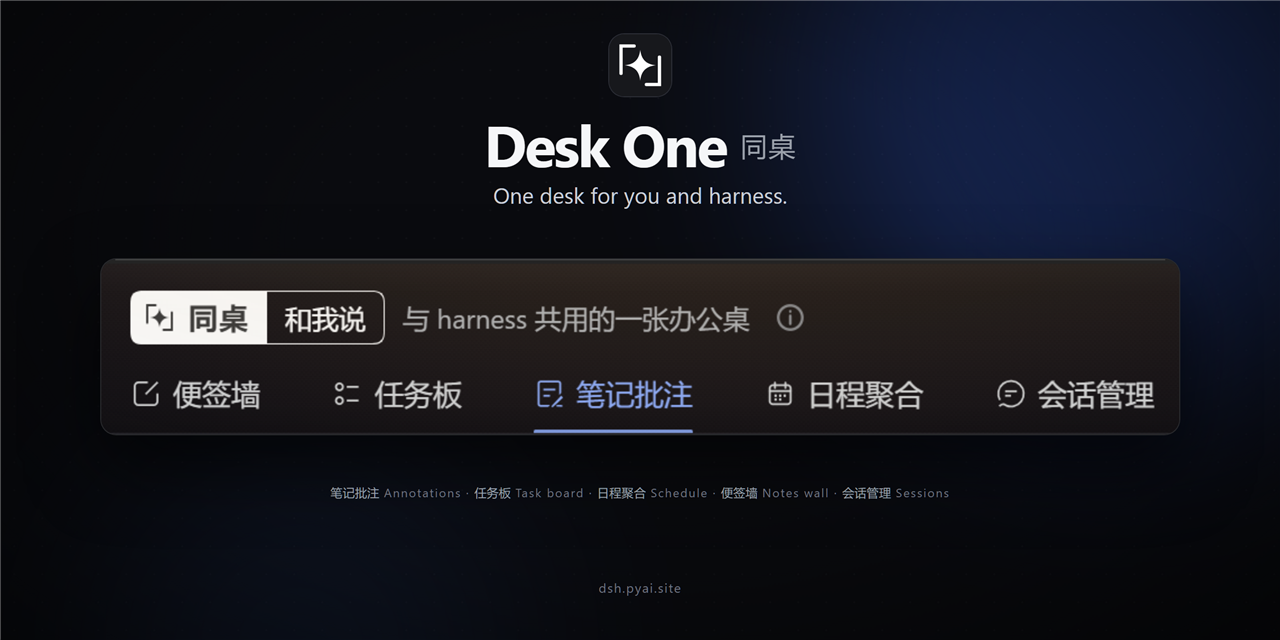
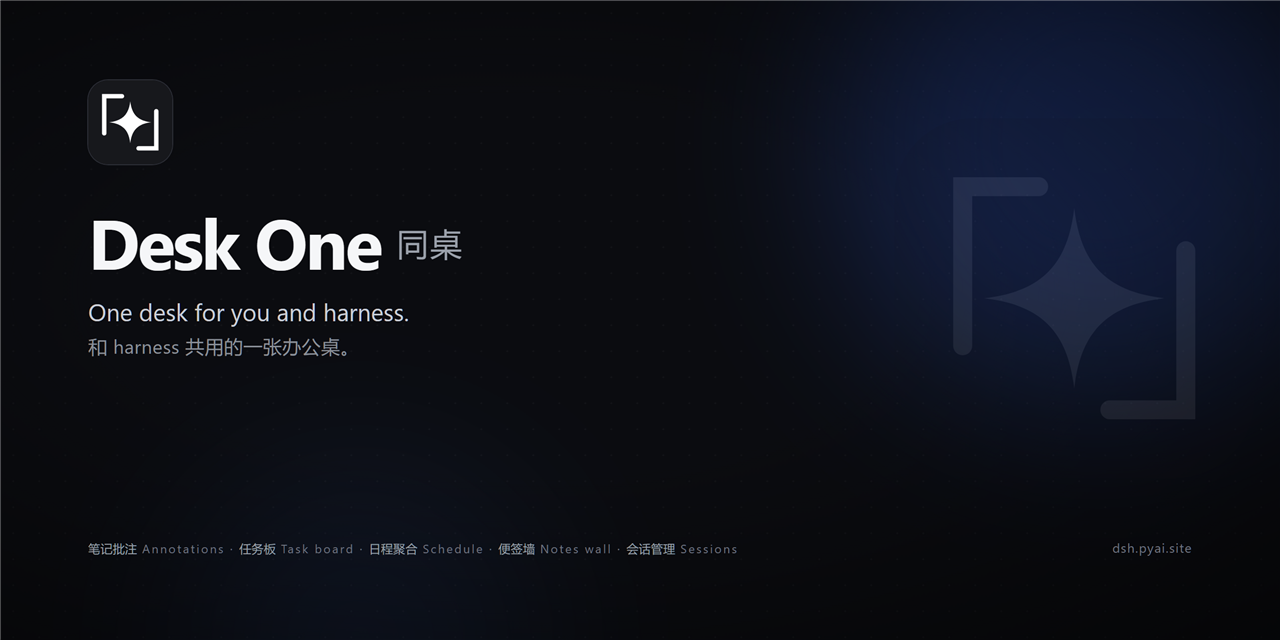
chore(resources)：社交预览回到纯品牌卡，去掉重复截图

diff --git a/docs/brand.md b/docs/brand.md
@@ -22,7 +22,7 @@
 | --- | --- | --- | --- | --- | --- |
 | B1 | 标志（透明） | `resources/brand/desk-one-mark.svg` | 24 viewBox；品牌蓝 `#4176E6`、墨色两版 | README、市场、社交图 | 待制作 |
 | B2 | 应用图标 | `plugins/dsh-desk-one/icon.svg` | 512×512，圆角 22%，方底反白 | 插件管理器、市场卡 | **已定 B（方底反白）**，已入包 |
-| B3 | 社交预览 | `resources/dsh-desk-one-social.png` | 1280×640 | GitHub Social preview | **已制作（2026-11-15）**：桌面头部 + 功能标签截图，上下版式，中英同图 |
+| B3 | 社交预览 | `resources/dsh-desk-one-social.png` | 1280×640 | GitHub Social preview | **已制作（2026-11-15）**：纯品牌卡，无截图，中英同图 |
 | B4 | README 首图 | `resources/dsh-desk-one-hero.png` | 1600×900 | 根 README、插件 README 第一屏 | **已用真图合成（2026-11-15）**，深色 |
 | B5 | 截图 ×5 | —（不进仓库） | 1440×900 原始素材 | 只作 hero 合成素材，放 TEMP | **已拍（隔离 demo）**，在 `TEMP/brand/shots/` |
 
@@ -162,7 +162,7 @@
 ## 9 进度（2026-11-15）
 
 - 已落地：图标（B）+ `locale` 中英显示元数据 + 包内 `exports` / `files`；市场索引的 title / icon / homepage 与守卫；`landing.html` 首位卡；根 README 首屏；GitHub description / topics / website；issue 表单。
-- 真图（2026-11-15）：`resources/dsh-desk-one-hero.png` 用隔离 demo 的五张 1440×900 截图合成并同名替换；`resources/dsh-desk-one-social.png` 改用桌面头部 + 功能标签截图（1280×640，上下版式），中英同图。
+- 真图（2026-11-15）：`resources/dsh-desk-one-hero.png` 用隔离 demo 的五张 1440×900 截图合成并同名替换；`resources/dsh-desk-one-social.png` 改为纯品牌卡（1280×640，无截图），中英同图。
 - 构图（2026-11-15 定，真图版）：hero 一张图内含大面板 + 四张浮层，README 只放这一张。
 - 构图细节（2026-11-15 定）：主面板 = 笔记批注页；浮层 = 批注视图 / 任务板 / 日程 / 便签墙；会话管理保留在标签栏与左侧功能名；只出深色。
 - 截图素材：`TEMP/brand/shots/`（隔离 demo，1440×900，合成用，不入库）；合成脚本 `TEMP/brand/hero-real.html`、`TEMP/brand/social-card-v4.html`。
